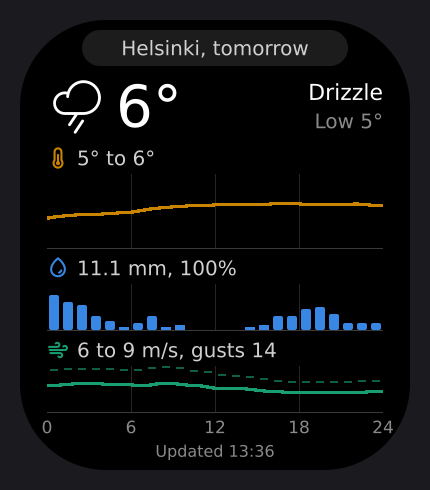
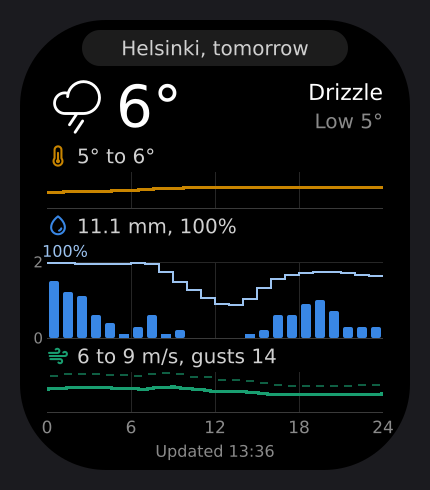
Weather: larger rain chart from zero, with the chance of rain
The rain chart moves to the middle and doubles in height; temperature
shrinks. Bars stand on a scale from 0 marked in the margin, any rain is
at least 4 px, and past hours are dimmed less. The hourly chance of rain
is a step line over the bars, labelled where rain becomes likely.

diff --git a/apps/weather/page/index.js b/apps/weather/page/index.js
@@ -1,6 +1,6 @@
 // The Weather app's one screen: a day at a glance. Current conditions on top,
-// then three small charts over the same 24 hours: temperature, rain or snow,
-// and wind. Tapping the place name flips between today and tomorrow.
+// then three charts over the same 24 hours: temperature, rain or snow (the
+// largest, with the chance of it), and wind. Tapping the place name flips between today and tomorrow.
 //
 // The forecast comes from the phone (see app-side/index.js). The last one is
 // kept on the watch, so the screen fills in at once and works without the
@@ -19,10 +19,12 @@ import {
   degrees,
   tempCaption,
   rainCaption,
+  rainScale,
+  chanceMarks,
   windCaption,
   clock,
 } from '../lib/forecast'
-import { range, lineRects, lineY, barRects, dashRects, dim } from '../lib/chart'
+import { range, lineRects, lineY, barRects, stepRects, dashRects, dim } from '../lib/chart'
 import { SERIES } from '../lib/palette'
 
 const storage = new LocalStorage()
@@ -32,11 +34,15 @@ const WIDTH = 390
 // The charts share one time axis: 24 hours, 14 px each.
 const PLOT_X = 27
 const PLOT_W = 336
-const TEMP = { x: PLOT_X, y: 154, w: PLOT_W, h: 74 }
+// Rain gets the most room: temperature barely moves over a day.
+const TEMP = { x: PLOT_X, y: 152, w: PLOT_W, h: 36 }
 // The temperature line keeps clear of its chart's top edge and baseline.
-const TEMP_LINE = { x: PLOT_X, y: TEMP.y + 5, w: PLOT_W, h: TEMP.h - 10 }
-const RAIN = { x: PLOT_X, y: 264, w: PLOT_W, h: 46 }
-const WIND = { x: PLOT_X, y: 346, w: PLOT_W, h: 46 }
+const TEMP_LINE = { x: PLOT_X, y: TEMP.y + 4, w: PLOT_W, h: TEMP.h - 8 }
+// The rain chart: a strip for the chance labels, then the bars under it.
+const RAIN = { x: PLOT_X, y: 222, w: PLOT_W, h: 96 }
+const CHANCE_LABELS = { y: RAIN.y, h: 18 }
+const RAIN_BARS = { x: PLOT_X, y: RAIN.y + 20, w: PLOT_W, h: RAIN.h - 20 }
+const WIND = { x: PLOT_X, y: 352, w: PLOT_W, h: 40 }
 const AXIS_Y = 396
 const STATUS = { x: 95, y: 420, w: 200, h: 22 }
 
@@ -49,14 +55,17 @@ const COLOR = {
   grid: 0x262626,
   baseline: 0x3a3a3a,
   now: 0x8a8a8a,
+  // The chance of rain or snow: a light line over the bars.
+  chance: 0x9cc3f0,
   ...SERIES,
 }
-// Hours already gone are drawn darker.
+// Hours already gone are drawn darker. Rain bars less so, so that a small
+// amount still shows.
 const PAST = 0.45
+const PAST_BARS = 0.6
 
 // The least an axis spans, so a calm, dry, steady day looks like one.
 const MIN_TEMP_SPAN = { c: 6, f: 10 }
-const MIN_RAIN_MAX = { c: 2, f: 0.08 }
 const MIN_WIND_MAX = { ms: 8, kmh: 30, mph: 18, kn: 16 }
 
 const PROBLEMS = {
@@ -227,16 +236,7 @@ Page(
         this.rect(r, r.before ? dim(COLOR.temp, PAST) : COLOR.temp),
       )
 
-      // Rain and snow: a bar per hour.
-      const wet = rainCaption(view, units)
-      this.caption(RAIN, wet.icon, wet.text)
-      const rainMax = Math.max(MIN_RAIN_MAX[units.temp], ...view.rain)
-      barRects(view.rain, RAIN, { max: rainMax }).forEach((r, hour) => {
-        if (!r) return
-        const color = view.snowy[hour] ? COLOR.snow : COLOR.rain
-        const past = nowX !== null && r.x - PLOT_X + r.w <= nowX
-        this.rect(r, past ? dim(color, PAST) : color, r.h >= 6 ? 2 : 0)
-      })
+      this.drawRain(view, units, nowX)
 
       // Wind: a line for the speed, a dash above it for each hour's gusts.
       const windScale = { lo: 0, hi: Math.max(MIN_WIND_MAX[units.wind], view.summary.gustMax) }
@@ -264,6 +264,45 @@ Page(
 
       this.state.status = this.text(STATUS.x, STATUS.y, STATUS.w, STATUS.h, '', 16, COLOR.dim, align.CENTER_H)
       this.showStatus()
+    },
+
+    // Rain and snow: a bar per hour on a scale from zero, marked in the left
+    // margin. Over the bars, a line for the chance of rain or snow (0 to 100%),
+    // labelled where rain becomes likely.
+    drawRain(view, units, nowX) {
+      const wet = rainCaption(view, units)
+      this.caption(RAIN, wet.icon, wet.text)
+
+      const scale = rainScale(view, units)
+      const box = RAIN_BARS
+      this.rect({ x: box.x, y: box.y, w: box.w, h: 1 }, COLOR.grid)
+      this.text(0, box.y - 9, PLOT_X - 4, 18, scale.label, 15, COLOR.dim, align.RIGHT)
+      this.text(0, box.y + box.h - 9, PLOT_X - 4, 18, '0', 15, COLOR.dim, align.RIGHT)
+
+      barRects(view.rain, box, { max: scale.max }).forEach((r, hour) => {
+        if (!r) return
+        const color = view.snowy[hour] ? COLOR.snow : COLOR.rain
+        const past = nowX !== null && r.x - PLOT_X + r.w <= nowX
+        this.rect(r, past ? dim(color, PAST_BARS) : color, r.h >= 6 ? 2 : 0)
+      })
+
+      stepRects(view.prob, box, { lo: 0, hi: 100, splitAt: nowX }).forEach((r) =>
+        this.rect(r, r.before ? dim(COLOR.chance, PAST) : COLOR.chance),
+      )
+
+      // A label over each hour where rain becomes likely, from now on, kept
+      // clear of the scale in the margin.
+      const from = view.nowHour === null ? 0 : Math.floor(view.nowHour)
+      const w = 44
+      let free = PLOT_X - 4
+      chanceMarks(view.prob, from).forEach((hour) => {
+        const x = Math.min(WIDTH - w, Math.max(free, Math.round(PLOT_X + (hour + 0.5) * 14 - w / 2)))
+        // No room: pushed off its hour by the label before, or into it at the edge.
+        if (x > PLOT_X + (hour + 1) * 14 || x < free) return
+        free = x + w
+        const label = `${Math.round(view.prob[hour])}%`
+        this.text(x, CHANCE_LABELS.y, w, CHANCE_LABELS.h, label, 16, COLOR.chance, align.CENTER_H)
+      })
     },
 
     // Place and day (a button that flips the day), then the headline numbers.
@@ -302,7 +341,7 @@ Page(
     // Faint lines at 6, 12 and 18 o'clock, a baseline under each chart, and a
     // brighter line for "now".
     drawGrid(nowX) {
-      ;[TEMP, RAIN, WIND].forEach((box) => {
+      ;[TEMP, RAIN_BARS, WIND].forEach((box) => {
         ;[6, 12, 18].forEach((hour) => {
           this.rect({ x: box.x + hour * 14, y: box.y, w: 1, h: box.h }, COLOR.grid)
         })

diff --git a/apps/weather/lib/forecast.js b/apps/weather/lib/forecast.js
@@ -277,7 +277,8 @@ const sum = (values) => values.reduce((total, value) => total + value, 0)
 //
 // Returns null when the forecast does not cover that day. Otherwise:
 //   temp, wind  25 points, 00:00 to 24:00 (readings at each full hour)
-//   rain, gust, snowy, prob  24 slots, one per hour (totals over that hour)
+//   rain, gust, snowy, prob  24 slots, one per hour (totals over that hour;
+//               prob is the chance of rain or snow in that hour, 0-100)
 //   nowHour     position of "now" in the day, 0-24, or null for tomorrow
 export function dayView(forecast, now, tomorrow) {
   const h = forecast.h
@@ -297,6 +298,7 @@ export function dayView(forecast, now, tomorrow) {
   const rain = slots(h.rain)
   const snow = slots(h.snow)
   const gust = slots(h.gust)
+  const prob = slots(h.prob)
   const snowy = rain.map((amount, i) => isSnow(amount, snow[i], forecast.units))
   const codes = h.code.slice(base, base + 24)
   const daylight = h.day.slice(base, base + 24)
@@ -310,12 +312,13 @@ export function dayView(forecast, now, tomorrow) {
     rain,
     gust,
     snowy,
+    prob,
     summary: {
       tempMin: Math.min(...temp),
       tempMax: Math.max(...temp),
       rain: sum(rain.filter((amount, i) => !snowy[i])),
       snow: sum(snow.filter((amount, i) => snowy[i])),
-      prob: Math.max(...slots(h.prob)),
+      prob: Math.max(...prob),
       windMin: Math.min(...wind),
       windMax: Math.max(...wind),
       gustMax: Math.max(...gust),
@@ -335,6 +338,40 @@ export function dayView(forecast, now, tomorrow) {
     view.head = { temp: between(temp), code: codes[hour], isDay: !!daylight[hour], wind: between(wind) }
   }
   return view
+}
+
+// The rain chart's scale, from zero: the top is the first of these that the
+// wettest hour fits under. Amounts are in mm (Celsius) or inches (Fahrenheit).
+const RAIN_STEPS = {
+  c: [1, 2, 5, 10, 20, 50, 100],
+  f: [0.04, 0.1, 0.2, 0.5, 1, 2, 4],
+}
+
+export function rainScale(view, units) {
+  const steps = RAIN_STEPS[units.temp]
+  const wettest = Math.max(...view.rain)
+  const max = steps.find((step) => wettest <= step) || steps[steps.length - 1]
+  // "0.5" in inches is written ".5" to fit the margin beside the chart.
+  return { max, label: String(max).replace(/^0\./, '.') }
+}
+
+// Rain counts as likely from this chance on, and stops being likely once the
+// chance falls below LIKELY_ENDS, so a wobble around one figure is one spell.
+export const LIKELY = 50
+export const LIKELY_ENDS = 30
+
+// The hours, from `from` on, where rain or snow becomes likely: the first hour
+// of each likely spell. A spell already under way at `from` is marked there.
+export function chanceMarks(prob, from) {
+  const marks = []
+  let likely = false
+  for (let hour = Math.max(0, from); hour < prob.length; hour++) {
+    if (!likely && prob[hour] >= LIKELY) {
+      likely = true
+      marks.push(hour)
+    } else if (likely && prob[hour] < LIKELY_ENDS) likely = false
+  }
+  return marks
 }
 
 // --- text ---

diff --git a/apps/weather/lib/chart.js b/apps/weather/lib/chart.js
@@ -55,16 +55,49 @@ export function lineRects(values, box, { lo, hi, step = 3, thickness = 3, splitA
 // The y of the line drawn by lineRects at `px` pixels from the left edge.
 export const lineY = (values, box, scale, px) => topAt(values, box, scale)(px)
 
-// One bar per value, standing on the bottom of the box. Values of zero get no
-// bar; anything above zero is at least `minH` tall so a trace still shows.
-// Returns a list as long as `values`, with null where there is no bar.
-export function barRects(values, box, { max, gap = 4, minH = 3 }) {
+// One bar per value, standing on the bottom of the box, on a scale from zero
+// to `max`. Values of zero get no bar; anything above zero is at least `minH`
+// tall so a trace still shows. Returns a list as long as `values`, with null
+// where there is no bar.
+export function barRects(values, box, { max, gap = 4, minH = 4 }) {
   const slot = box.w / values.length
   return values.map((value, i) => {
     if (!(value > 0)) return null
     const h = Math.max(minH, Math.min(box.h, Math.round((value / max) * box.h)))
     return { x: Math.round(box.x + i * slot + gap / 2), y: box.y + box.h - h, w: Math.round(slot - gap), h }
   })
+}
+
+// A step line through hourly `values`: a level across each value's slot and an
+// upright joining it to the next level. Levels that run on unchanged are
+// merged. `splitAt` (pixels from the left edge of the box) marks each piece
+// that ends at or before it with `before`.
+export function stepRects(values, box, { lo, hi, thickness = 2, splitAt = null }) {
+  const span = hi - lo || 1
+  const slot = box.w / values.length
+  const edge = (i) => Math.round(i * slot)
+  const top = (value) =>
+    Math.round(box.y + (1 - (Math.min(hi, Math.max(lo, value)) - lo) / span) * (box.h - thickness))
+  const isBefore = (px) => splitAt !== null && px <= splitAt
+
+  const rects = []
+  let level = null
+  values.forEach((value, i) => {
+    const y = top(value)
+    const before = isBefore(edge(i + 1))
+    if (level && level.y === y && level.before === before) level.w = box.x + edge(i + 1) - level.x
+    else {
+      level = { x: box.x + edge(i), y, w: edge(i + 1) - edge(i), h: thickness, before }
+      rects.push(level)
+    }
+    const next = i + 1 < values.length ? top(values[i + 1]) : y
+    if (next !== y) {
+      const x = edge(i + 1) - Math.floor(thickness / 2)
+      rects.push({ x: box.x + x, y: Math.min(y, next), w: thickness, h: Math.abs(next - y) + thickness, before: isBefore(x) })
+      level = null
+    }
+  })
+  return rects
 }
 
 // A short dash per value at its height, for readings that sit above a line

diff --git a/CLAUDE.md b/CLAUDE.md
@@ -59,7 +59,13 @@ from. The always-on display (`SCENE_AOD`) gets the time only.
 
 **Weather.** One page. Header chip (a `BUTTON`: place and day, tap flips today/tomorrow),
 current conditions, then three charts on one 24-hour axis: temperature line, rain/snow
-bars, wind line with gust dashes. The charts are built **only from `FILL_RECT`s**
+bars, wind line with gust dashes. The rain chart is the big one in the middle (user,
+2026-11-17: temperature barely moves over a day, rain matters): bars on a scale from 0
+to a round amount (1, 2, 5... mm; labelled in the left margin, `rainScale`), at least
+4 px for any rain, past hours dimmed only to 60%. Over the bars, the hourly chance of
+rain as a 2 px step line (`stepRects`, 0 to 100%), and a "%" label above each hour where
+rain becomes likely from now on (`chanceMarks`: on at 50%, off below 30%). The user
+asked for the percentages where rain is likely to begin; the step line is my addition. The charts are built **only from `FILL_RECT`s**
 (`lib/chart.js` turns data into rectangles; a "line" is 3 px columns, merged where
 flat), because that is the drawing primitive already proven on the watch and the mock
 preview draws it exactly. `CANVAS` (API 3.0) and `GRADKIENT_POLYLINE` exist in the docs
@@ -163,9 +169,12 @@ Nutrition app fixed it. Treat it as a firmware bug to design around:
 - Launcher scrolling with more than nine tiles.
 - Whether phone config sync works (the user has not said), and `name:` / `screen:`
   targets.
-- The Weather app as a whole (built 2026-11-16, never installed). Its watch drawing uses
-  only `TEXT`, `FILL_RECT`, `BUTTON` and `IMG`. Unseen on hardware: `fetch` in the side
-  service, the settings page's `Select` and `Button` components, whether the side
+- The Weather app: the user has installed it and runs it (2026-11-17, complaining about
+  the rain chart: "doesn't start at actual 0", an hour of 0.8 mm "not displayed at all,
+  even as a small blue bar", no chance shown later in the day). So the side service's
+  `fetch` works. The 0.8 mm report is not reproduced by the mock; likely causes in that
+  build were past bars dimmed to 45% and a 3 px minimum on a 46 px chart. Still unseen
+  since the redesign that followed. Not reported on: whether the side
   service is started by a settings change while the watch app is closed (ZML has code
   for it; if not, the watch's first request does the place lookup instead),
   `Time.getTime()`, and how wide the texts come out in the watch's own font (the
